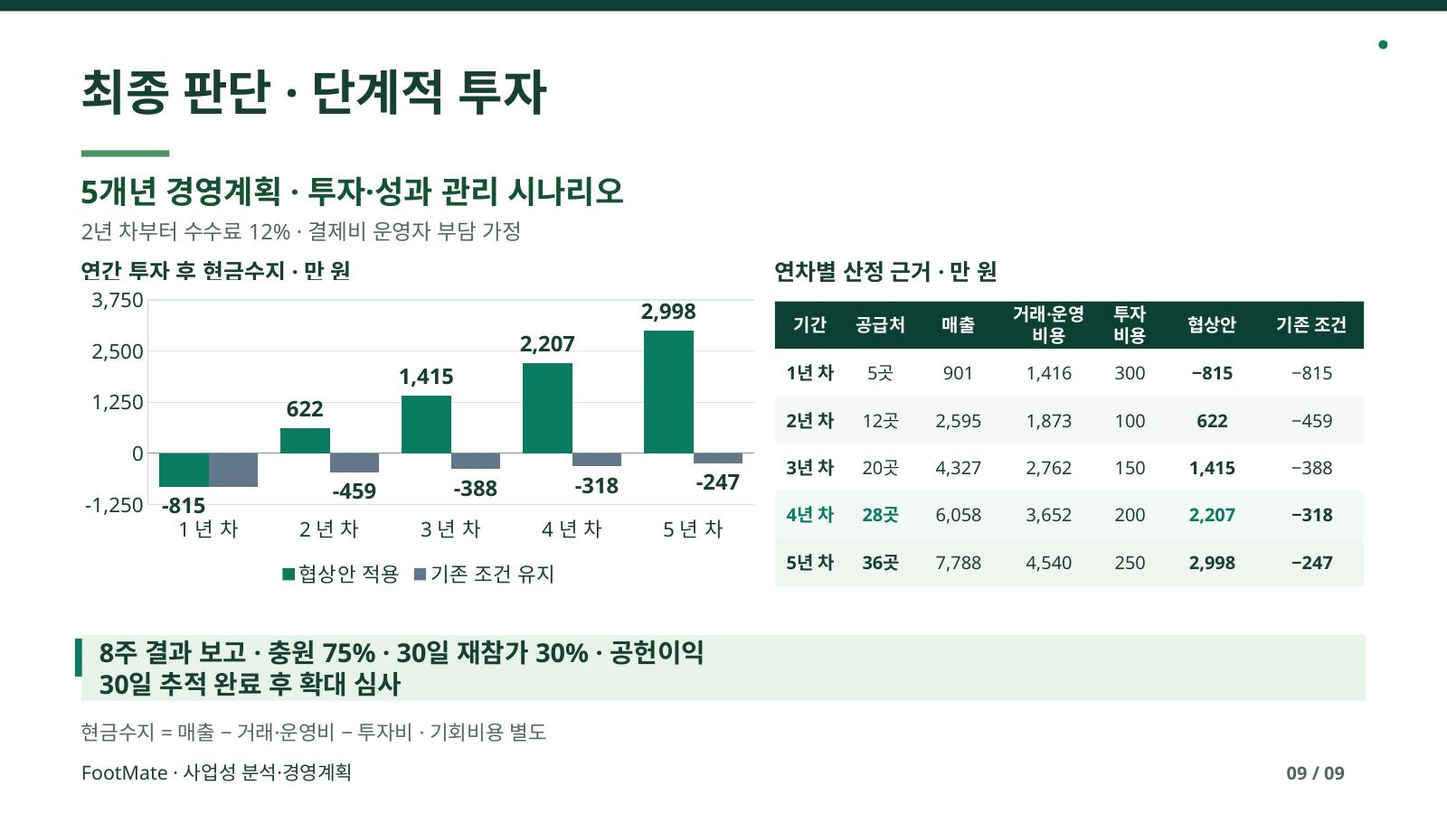
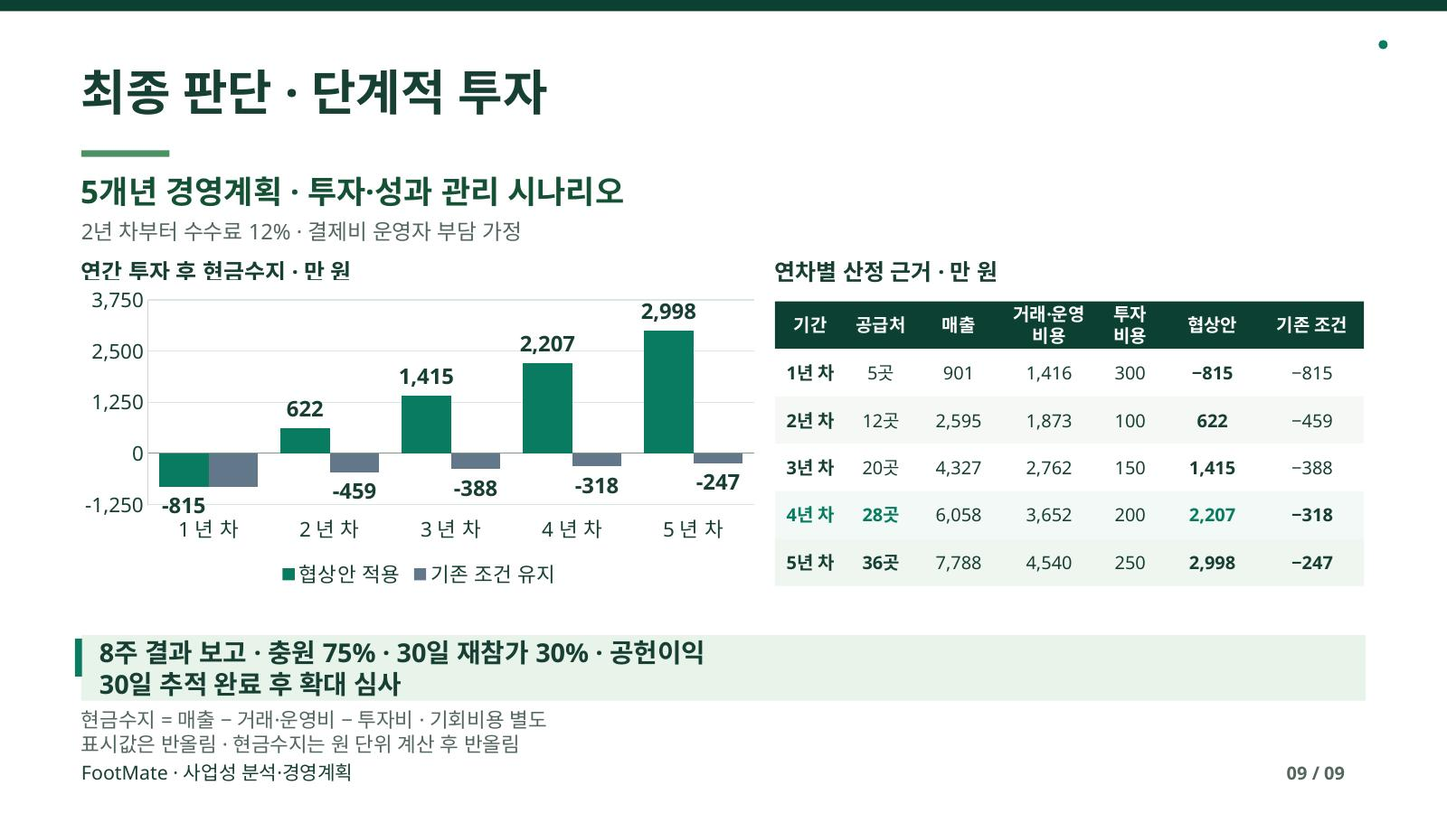
Clarify resource scope and cash-flow rounding

Changed region(s): [[0.0312, 0.8711, 0.375, 0.9333]]

diff --git a/src/case-study/nine-sections.js b/src/case-study/nine-sections.js
@@ -8,7 +8,7 @@ const sections = [
     "name": "추진 배경·검토 결론",
     "title": "풋살 매칭 플랫폼의 사업성 검토 및 중장기 경영계획",
     "lead": "",
-    "body": "<div class=\"case-verdict\"><h2>운영자 제휴로 시작하고,<br>수익성 확인 후 투자한다.</h2></div><dl class=\"case-kpis\" aria-label=\"기준 시나리오 주요 수치\"><div class=\"case-kpi\"><dt>월 완료 예약</dt><dd>626<small>건</small></dd></div><div class=\"case-kpi\"><dt>예약당 공헌이익</dt><dd>340<small>원</small></dd></div><div class=\"case-kpi\"><dt>예상 월 현금 손익</dt><dd class=\"is-negative\">약 −38.7<small>만 원</small></dd></div></dl><p class=\"case-scenario-note\">가정 기반 월간 시나리오 · 제휴 5곳 · 수수료 10% · 결제비 3%</p><div class=\"case-next-decision\"><strong>8주 현장 검증</strong><span>기본 현금 예산 461만 원</span></div><section id=\"attachments\" class=\"case-documents\" aria-labelledby=\"case-documents-heading\"><div class=\"case-documents-head\"><div class=\"case-documents-intro\"><h2 id=\"case-documents-heading\">발표자료</h2></div></div><div class=\"case-deck-stack\"><div class=\"case-deck-card\"><details class=\"case-doc-preview case-report-preview\"><summary><span class=\"case-preview-summary-main\"><span class=\"case-preview-symbol\" aria-hidden=\"true\">01</span><span class=\"case-preview-summary-text\"><strong>사업성 분석·경영계획</strong><span class=\"case-preview-description\">사업성 검토 · 손익분기 · 투자 판단</span></span></span><span class=\"case-preview-summary-side\"><span class=\"case-preview-count\">9장</span><span class=\"case-preview-action\">살펴보기</span><span class=\"case-preview-indicator\" aria-hidden=\"true\"></span></span></summary><div class=\"case-doc-preview-body\"><iframe class=\"case-ppt-frame\" title=\"사업성 분석·경영계획 슬라이드 9장\" allowfullscreen data-src=\"/src/case-study/materials.html?preview=1&viewer=20261112-qa\" loading=\"lazy\"></iframe></div></details><div class=\"case-downloads\" aria-label=\"사업성 분석·경영계획 발표자료\"><a href=\"/src/case-study/materials.html?preview=1&mode=slides&v=20261112-qa\" target=\"_blank\" rel=\"noopener\" aria-label=\"사업성 분석·경영계획 발표 보기\">발표 보기</a><a href=\"/src/case-study/downloads/footmate_report.pptx?v=20261113-budget\" download=\"footmate_report.pptx\">기획 자료 받기</a></div></div><div class=\"case-deck-card\"><details class=\"case-doc-preview case-strategy-preview\"><summary><span class=\"case-preview-summary-main\"><span class=\"case-preview-symbol\" aria-hidden=\"true\">02</span><span class=\"case-preview-summary-text\"><strong>중장기 성장 전략</strong><span class=\"case-preview-description\">공급 확대 · 5개년 손익 · 성과관리</span></span></span><span class=\"case-preview-summary-side\"><span class=\"case-preview-count\">6장</span><span class=\"case-preview-action\">살펴보기</span><span class=\"case-preview-indicator\" aria-hidden=\"true\"></span></span></summary><div class=\"case-doc-preview-body\"><iframe class=\"case-ppt-frame\" title=\"중장기 성장 전략 슬라이드 6장\" allowfullscreen data-src=\"/src/case-study/materials.html?preview=1&deck=strategy&viewer=20261112-qa\" loading=\"lazy\"></iframe></div></details><div class=\"case-downloads\" aria-label=\"중장기 성장 전략 발표자료\"><a href=\"/src/case-study/materials.html?preview=1&mode=slides&deck=strategy&v=20261112-qa\" target=\"_blank\" rel=\"noopener\" aria-label=\"중장기 성장 전략 발표 보기\">발표 보기</a><a href=\"/src/case-study/downloads/footmate_5year_strategy.pptx?v=20261112-qa\" download=\"footmate_5year_strategy.pptx\">전략 자료 받기</a></div></div></div></section>"
+    "body": "<div class=\"case-verdict\"><h2>운영자 제휴로 시작하고,<br>수익성 확인 후 투자한다.</h2></div><dl class=\"case-kpis\" aria-label=\"기준 시나리오 주요 수치\"><div class=\"case-kpi\"><dt>월 완료 예약</dt><dd>626<small>건</small></dd></div><div class=\"case-kpi\"><dt>예약당 공헌이익</dt><dd>340<small>원</small></dd></div><div class=\"case-kpi\"><dt>예상 월 현금 손익</dt><dd class=\"is-negative\">약 −38.7<small>만 원</small></dd></div></dl><p class=\"case-scenario-note\">가정 기반 월간 시나리오 · 제휴 5곳 · 수수료 10% · 결제비 3%</p><div class=\"case-next-decision\"><strong>8주 현장 검증</strong><span>기본 현금 예산 461만 원</span></div><section id=\"attachments\" class=\"case-documents\" aria-labelledby=\"case-documents-heading\"><div class=\"case-documents-head\"><div class=\"case-documents-intro\"><h2 id=\"case-documents-heading\">발표자료</h2></div></div><div class=\"case-deck-stack\"><div class=\"case-deck-card\"><details class=\"case-doc-preview case-report-preview\"><summary><span class=\"case-preview-summary-main\"><span class=\"case-preview-symbol\" aria-hidden=\"true\">01</span><span class=\"case-preview-summary-text\"><strong>사업성 분석·경영계획</strong><span class=\"case-preview-description\">사업성 검토 · 손익분기 · 투자 판단</span></span></span><span class=\"case-preview-summary-side\"><span class=\"case-preview-count\">9장</span><span class=\"case-preview-action\">살펴보기</span><span class=\"case-preview-indicator\" aria-hidden=\"true\"></span></span></summary><div class=\"case-doc-preview-body\"><iframe class=\"case-ppt-frame\" title=\"사업성 분석·경영계획 슬라이드 9장\" allowfullscreen data-src=\"/src/case-study/materials.html?preview=1&viewer=20261112-qa\" loading=\"lazy\"></iframe></div></details><div class=\"case-downloads\" aria-label=\"사업성 분석·경영계획 발표자료\"><a href=\"/src/case-study/materials.html?preview=1&mode=slides&v=20261112-qa\" target=\"_blank\" rel=\"noopener\" aria-label=\"사업성 분석·경영계획 발표 보기\">발표 보기</a><a href=\"/src/case-study/downloads/footmate_report.pptx?v=20261113-rounding\" download=\"footmate_report.pptx\">기획 자료 받기</a></div></div><div class=\"case-deck-card\"><details class=\"case-doc-preview case-strategy-preview\"><summary><span class=\"case-preview-summary-main\"><span class=\"case-preview-symbol\" aria-hidden=\"true\">02</span><span class=\"case-preview-summary-text\"><strong>중장기 성장 전략</strong><span class=\"case-preview-description\">공급 확대 · 5개년 손익 · 성과관리</span></span></span><span class=\"case-preview-summary-side\"><span class=\"case-preview-count\">6장</span><span class=\"case-preview-action\">살펴보기</span><span class=\"case-preview-indicator\" aria-hidden=\"true\"></span></span></summary><div class=\"case-doc-preview-body\"><iframe class=\"case-ppt-frame\" title=\"중장기 성장 전략 슬라이드 6장\" allowfullscreen data-src=\"/src/case-study/materials.html?preview=1&deck=strategy&viewer=20261112-qa\" loading=\"lazy\"></iframe></div></details><div class=\"case-downloads\" aria-label=\"중장기 성장 전략 발표자료\"><a href=\"/src/case-study/materials.html?preview=1&mode=slides&deck=strategy&v=20261112-qa\" target=\"_blank\" rel=\"noopener\" aria-label=\"중장기 성장 전략 발표 보기\">발표 보기</a><a href=\"/src/case-study/downloads/footmate_5year_strategy.pptx?v=20261112-qa\" download=\"footmate_5year_strategy.pptx\">전략 자료 받기</a></div></div></div></section>"
   },
   {
     "name": "시장·경쟁 분석",
@@ -50,7 +50,7 @@ const sections = [
     "name": "실행계획·성과관리",
     "title": "8주 현장 검증·투자 심사",
     "lead": "추진 일정과 목표, 예산 및 결정 기준.",
-    "body": "<div class=\"reader-summary\"><h3>예산과 핵심 목표</h3><dl class=\"case-decision-points\" aria-label=\"투자·검증·성과 목표 요약\"><div><dt>투자 상한</dt><dd>기본 현금 예산 461만 원 · 기회비용 포함 831만 원 · 유료 거래 변동비 별도 승인</dd></div><div><dt>초기 검증</dt><dd>운영자 5곳 면담 → 제휴 조건 확인 → 무료 참가 시범 운영</dd></div><div><dt>제안 목표</dt><dd>모집 충원율 75% · 30일 재참가율 30%</dd></div></dl><p class=\"case-decision-next\"><strong>투자 판단:</strong> 공급 계약, 참가·정원 기록, 건당 이익을 종합 검토.</p></div><section class=\"case-roadmap\" aria-labelledby=\"case-roadmap-heading\"><div class=\"case-roadmap-heading\"><span class=\"case-visual-eyebrow\">사업 추진 일정</span><h3 id=\"case-roadmap-heading\">8주 실행 로드맵</h3></div><ol><li><span class=\"case-roadmap-index\">01</span><span class=\"case-roadmap-period\">1–2주</span><strong>공급 검증</strong><small>운영자 5곳 면담</small></li><li><span class=\"case-roadmap-index\">02</span><span class=\"case-roadmap-period\">3–4주</span><strong>무료 시범</strong><small>참가·취소·체크인</small></li><li><span class=\"case-roadmap-index\">03</span><span class=\"case-roadmap-period\">5–8주</span><strong>유료 조건 검토</strong><small>책임 확정 후 실험</small></li><li><span class=\"case-roadmap-index\">04</span><span class=\"case-roadmap-period\">8주 이후</span><strong>투자 심사</strong><small>참가·수익성 비교</small></li></ol></section><div class=\"table-wrap\" role=\"region\" aria-label=\"단계별 실행 계획 · 제안\" tabindex=\"0\"><table><caption>단계별 실행 계획 · 제안</caption><thead><tr><th scope=\"col\">단계</th><th scope=\"col\">주요 작업</th><th scope=\"col\">산출물·진행 조건</th></tr></thead><tbody><tr><th scope=\"row\">1–2주 · 공급 검증</th><td data-label=\"주요 작업\">후보 운영자 5곳 면담, 모집·정원·취소·수수료 책임 확인</td><td data-label=\"산출물·진행 조건\">제휴 의향과 공급 일정. 2곳 미만이면 지역·모델 재검토</td></tr><tr><th scope=\"row\">3–4주 · 무료 참가 시범 운영</th><td data-label=\"주요 작업\">실제 경기 등록·참가·취소·체크인·문의 처리</td><td data-label=\"산출물·진행 조건\">실제 참가자의 운영 기록과 상태·복구 목록</td></tr><tr><th scope=\"row\">5–8주 · 유료 검토</th><td data-label=\"주요 작업\">계약·결제·환불 책임 확정 후 가격·수수료·모집 실험</td><td data-label=\"산출물·진행 조건\">무료 참가 시범 운영으로 선행 요건을 확인한 뒤 결제 전환</td></tr><tr><th scope=\"row\">8주 이후 · 투자 심사</th><td data-label=\"주요 작업\">완료 예약·재참가·공헌이익·운영 시간 비교</td><td data-label=\"산출물·진행 조건\">현장 검증 결과에 따라 확장·집중 운영·모델 전환·종료 판단</td></tr><tr><th scope=\"row\">공동 추진 · 주간 점검</th><td data-label=\"주요 작업\">사업기획은 협상·일정, 운영은 공급·참가를 담당.</td><td data-label=\"산출물·진행 조건\">재무는 비용·정산, 개발은 예약·오류 기록을 대조.</td></tr><tr><th scope=\"row\">공동 추진 · 이슈 관리</th><td data-label=\"주요 작업\">매주 슬롯·충원·취소·완료와 약정 비용 점검.</td><td data-label=\"산출물·진행 조건\">과제별 담당·기한·결정 사항을 주간 회의에서 확정.</td></tr><tr><th scope=\"row\">공동 추진 · 8주 심사</th><td data-label=\"주요 작업\">충원 75%·30일 재참가 30%·건당 공헌이익 확인.</td><td data-label=\"산출물·진행 조건\">30일 경과 집단과 유료 완료 기록으로 확대 심사.</td></tr></tbody></table></div><p class=\"source-note\">초기 모집 목표 100명. 추천 효과 검증 표본은 별도 산정.</p><figure class=\"case-cash-chart\" aria-labelledby=\"case-cash-title\"><figcaption><strong id=\"case-cash-title\">5개년 연간 투자 후 현금수지</strong><span>연도별 현금수지 · 기회비용 별도 · 만 원</span></figcaption><ul class=\"case-cash-legend\"><li>협상안 적용</li><li>기존 조건 유지</li></ul><svg aria-hidden=\"true\" viewBox=\"0 0 548 223\"></svg></figure><details class=\"case-extra\"><summary>중장기 사업계획 · 예산과 확대 기준</summary><div class=\"detail-body\"><p><strong>5개년 기준 시나리오</strong> · 2년 차부터 수수료 12%·운영자 결제비 부담.</p><div class=\"table-wrap\" role=\"region\" tabindex=\"0\" aria-label=\"5개년 경영계획과 현금수지\"><table><caption>5개년 경영계획 · 금액 단위 만 원</caption><thead><tr><th scope=\"col\">항목</th><th scope=\"col\">1년 차</th><th scope=\"col\">2년 차</th><th scope=\"col\">3년 차</th><th scope=\"col\">4년 차</th><th scope=\"col\">5년 차</th></tr></thead><tbody><tr><th scope=\"row\">제휴 공급처</th><td data-label=\"1년 차\">5곳</td><td data-label=\"2년 차\">12곳</td><td data-label=\"3년 차\">20곳</td><td data-label=\"4년 차\">28곳</td><td data-label=\"5년 차\">36곳</td></tr><tr><th scope=\"row\">연 완료 예약</th><td data-label=\"1년 차\">7,512건</td><td data-label=\"2년 차\">18,024건</td><td data-label=\"3년 차\">30,048건</td><td data-label=\"4년 차\">42,072건</td><td data-label=\"5년 차\">54,084건</td></tr><tr><th scope=\"row\">수수료 매출</th><td data-label=\"1년 차\">901</td><td data-label=\"2년 차\">2,595</td><td data-label=\"3년 차\">4,327</td><td data-label=\"4년 차\">6,058</td><td data-label=\"5년 차\">7,788</td></tr><tr><th scope=\"row\">거래 변동비</th><td data-label=\"1년 차\">646</td><td data-label=\"2년 차\">901</td><td data-label=\"3년 차\">1,502</td><td data-label=\"4년 차\">2,104</td><td data-label=\"5년 차\">2,704</td></tr><tr><th scope=\"row\">현금 운영비</th><td data-label=\"1년 차\">770</td><td data-label=\"2년 차\">972</td><td data-label=\"3년 차\">1,260</td><td data-label=\"4년 차\">1,548</td><td data-label=\"5년 차\">1,836</td></tr><tr><th scope=\"row\">구축·확장 투자비</th><td data-label=\"1년 차\">300</td><td data-label=\"2년 차\">100</td><td data-label=\"3년 차\">150</td><td data-label=\"4년 차\">200</td><td data-label=\"5년 차\">250</td></tr><tr data-cash-series=\"negotiated\"><th scope=\"row\">투자 후 현금수지</th><td data-label=\"1년 차\">−815</td><td data-label=\"2년 차\">622</td><td data-label=\"3년 차\">1,415</td><td data-label=\"4년 차\">2,207</td><td data-label=\"5년 차\">2,998</td></tr><tr data-cash-series=\"current\"><th scope=\"row\">기존 수수료·결제 조건 유지 시 현금수지</th><td data-label=\"1년 차\">−815</td><td data-label=\"2년 차\">−459</td><td data-label=\"3년 차\">−388</td><td data-label=\"4년 차\">−318</td><td data-label=\"5년 차\">−247</td></tr></tbody></table></div><p class=\"source-note\">기준 · 참가비 12,000원 · 수수료 10% · 결제비 3%.</p><p class=\"source-note\">완료 예약은 공급·충원·취소 가정 · 변동비 860→500원/건.</p><p class=\"source-note\">연 운영비 720만 원 + 5곳 초과분 36만 원/곳.</p><p class=\"source-note\">1년 차 현금 운영비에 시범 운영비 50만 원 포함.</p><p class=\"source-note\">현금수지 = 수수료 매출 − 변동비 − 운영비 − 투자비.</p><p class=\"source-note\">인력 기회비용 월 200만 원 별도.</p><div class=\"table-wrap\" role=\"region\" tabindex=\"0\" aria-label=\"연차별 사업계획과 투자 기준\"><table><caption>연차별 사업계획과 투자 기준</caption><thead><tr><th scope=\"col\">기간</th><th scope=\"col\">사업·예산 계획</th><th scope=\"col\">핵심 지표</th><th scope=\"col\">승인 기준</th></tr></thead><tbody><tr><th scope=\"row\">1년 차 · 한 생활권</th><td data-label=\"사업·예산 계획\">기본 현금 예산 1,070만 원 · 거래 변동비 별도</td><td data-label=\"핵심 지표\">충원율 75% · 30일 재참가율 30%</td><td data-label=\"승인 기준\">8주 결과와 유료 예약당 공헌이익을 확인</td></tr><tr><th scope=\"row\">2년 차 · 인접 생활권</th><td data-label=\"사업·예산 계획\">생활권별 공급과 추가 관리비를 반영해 분기 예산 산정</td><td data-label=\"핵심 지표\">지역별 완료 예약 · 공헌이익 · 현금 손익</td><td data-label=\"승인 기준\">추가 운영비를 반영한 지역별 손익과 가용 현금 확인</td></tr><tr><th scope=\"row\">3년 차 · 제휴 운영 확대</th><td data-label=\"사업·예산 계획\">지역별 계획을 합산하고 연간 투자 우선순위 결정</td><td data-label=\"핵심 지표\">지역별 손익분기 · 현금 소요 · 공급 유지율</td><td data-label=\"승인 기준\">지역별 수익성과 운영 책임 확인 후 단계별 승인</td></tr><tr><th scope=\"row\">4년 차 · 운영 표준화</th><td data-label=\"사업·예산 계획\">공급처 28곳 · 정산·지원 프로세스 통합</td><td data-label=\"핵심 지표\">인력 기회비용 포함 월 운영손익</td><td data-label=\"승인 기준\">관리비·기회비용 포함 월 손익분기 3개월 연속</td></tr><tr><th scope=\"row\">5년 차 · 권역 확대</th><td data-label=\"사업·예산 계획\">공급처 36곳 · 다음 권역 투자 검토</td><td data-label=\"핵심 지표\">투자 후 현금수지 · 권역별 재참가율</td><td data-label=\"승인 기준\">현금수지와 권역별 수익성 검토 후 예산 확정</td></tr></tbody></table></div><div class=\"table-wrap\" role=\"region\" tabindex=\"0\" aria-label=\"1년 차 분기별 운영 계획\"><table><caption>1년 차 분기별 운영 계획</caption><thead><tr><th scope=\"col\">시기</th><th scope=\"col\">운영 계획</th><th scope=\"col\">관리 산출물</th></tr></thead><tbody><tr><th scope=\"row\">1분기</th><td data-label=\"운영 계획\">8주 파일럿 · 기본 현금 예산 461만 원</td><td data-label=\"관리 산출물\">제휴 조건과 충원·완료·취소 기록</td></tr><tr><th scope=\"row\">2분기</th><td data-label=\"운영 계획\">유료 조건 검토 · 30일 재참가 추적</td><td data-label=\"관리 산출물\">수수료·결제비·지원 비용 대조</td></tr><tr><th scope=\"row\">3분기</th><td data-label=\"운영 계획\">시간대와 공급처별 예산 재배분</td><td data-label=\"관리 산출물\">월 손익 차이 분석과 비용 관리</td></tr><tr><th scope=\"row\">4분기</th><td data-label=\"운영 계획\">연간 결과 검토와 다음 해 예산 심사</td><td data-label=\"관리 산출물\">생활권별 수익성과 투자 우선순위</td></tr></tbody></table></div><p class=\"source-note\">연간 운영 720만 원 + 구축 300만 원 + 시범 50만 원.</p><p class=\"source-note\">8주 예산은 연간 예산에 포함. 인력 기회비용은 월 200만 원.</p><p class=\"source-note\">운영자별 집계 → 생활권별 손익 → 전체 월간 보고.</p></div></details><details class=\"case-extra\"><summary>월간 경영보고 예시 · KPI·손익 비교</summary><div class=\"detail-body\"><p>6월 완료 예약 · 계획 1,052건 / 가상 실적 1,019건.</p><p>현금 손익 · 계획 −242,320원 / 가상 실적 −459,360원.</p><div class=\"table-wrap\" role=\"region\" tabindex=\"0\" aria-label=\"6월 월간 보고 예시 · 가상 데이터\"><table><caption>6월 월간 보고 예시 · 가상 데이터</caption><thead><tr><th scope=\"col\">항목</th><th scope=\"col\">계획 대비 손익 영향</th><th scope=\"col\">다음 조치</th></tr></thead><tbody><tr><th scope=\"row\">완료 물량</th><td data-label=\"계획 대비 손익 영향\">−39,600원</td><td data-label=\"다음 조치\">슬롯·충원·취소·완료 단계별 차이 대조</td></tr><tr><th scope=\"row\">수수료 단가</th><td data-label=\"계획 대비 손익 영향\">+400원</td><td data-label=\"다음 조치\">가격·수수료를 정산 원장과 대조</td></tr><tr><th scope=\"row\">순비용</th><td data-label=\"계획 대비 손익 영향\">−177,840원</td><td data-label=\"다음 조치\">고객 확보·지원·IT 비용의 증가 항목 확인</td></tr><tr><th scope=\"row\">합계</th><td data-label=\"계획 대비 손익 영향\">−217,040원</td><td data-label=\"다음 조치\">비용 배분과 후속 조치에 반영</td></tr></tbody></table></div><div class=\"table-wrap\" role=\"region\" tabindex=\"0\" aria-label=\"모의 월간 경영보고\"><table><caption>월간 계획·시나리오 데이터 비교</caption><thead><tr><th scope=\"col\">관리 항목</th><th scope=\"col\">기준·대조</th><th scope=\"col\">차이 분석·결정</th></tr></thead><tbody><tr><th scope=\"row\">공급·완료 KPI</th><td data-label=\"기준·대조\">626건/월 산정 기준. 슬롯·충원·예약·취소·완료율 분리.</td><td data-label=\"차이 분석·결정\">계획과 가상 결과의 물량 차이를 공급량·충원·취소로 분해</td></tr><tr><th scope=\"row\">수수료·손익</th><td data-label=\"기준·대조\">월 기준 · 매출 75.1만 원 / 건당 340원 / 현금 −38.7만 원</td><td data-label=\"차이 분석·결정\">원장 대조 · 수수료·변동비·고정비 확인 · 중복 차감 방지</td></tr><tr><th scope=\"row\">보고 절차 제안</th><td data-label=\"기준·대조\">월말+3일 원장 대조. +5일 차이 분석.</td><td data-label=\"차이 분석·결정\">원인·증빙·변경 산정 기준·승인 여부를 기록할 관리 절차 설계</td></tr></tbody></table></div></div></details><details><summary>8주 예산과 투자 심사 지표</summary><div class=\"detail-body\"><div class=\"case-evidence-part\"><h4>8주 자원 산정·승인 범위</h4><p>예산 · 구축 300만 원 / 월 기회비용 200만 원 / 시범 운영 50만 원.</p><p>창업자 투입 · 148시간 × 25,000원.</p><div class=\"table-wrap\" role=\"region\" aria-label=\"8주 현장 검증 자원 · 집행 상한 제안\" tabindex=\"0\"><table><caption>8주 현장 검증 자원 · 집행 상한 제안</caption><thead><tr><th scope=\"col\">항목</th><th scope=\"col\">산정·범위</th><th scope=\"col\">8주 금액</th></tr></thead><tbody><tr><th scope=\"row\">초기 구축</th><td data-label=\"산정·범위\">기존 초기 투자 계획. 필요한 범위만 착수 전 승인</td><td data-label=\"8주 금액\">3,000,000원</td></tr><tr><th scope=\"row\">고정 운영</th><td data-label=\"산정·범위\">월 600,000원 × 8주 ÷ 4.33주 · 만 원 단위 올림</td><td data-label=\"8주 금액\">1,110,000원</td></tr><tr><th scope=\"row\">시범 운영 추가비</th><td data-label=\"산정·범위\">모집·현장 지원 등 추가 집행 한도 산정 기준. 고정비와 중복 제외</td><td data-label=\"8주 금액\">500,000원</td></tr><tr><th scope=\"row\">기본 현금 예산</th><td data-label=\"산정·범위\">초기 구축비 + 고정 운영비 + 시범 운영 추가비. 유료 거래 변동비는 집행 전 별도 승인.</td><td data-label=\"8주 금액\">4,610,000원</td></tr><tr><th scope=\"row\">기회비용</th><td data-label=\"산정·범위\">200만 원 × 8주 ÷ 4.33주 · 만 원 단위 올림</td><td data-label=\"8주 금액\">3,700,000원</td></tr><tr><th scope=\"row\">총 자원 상한</th><td data-label=\"산정·범위\">기본 현금 예산 + 기회비용</td><td data-label=\"8주 금액\">8,310,000원</td></tr></tbody></table></div><p>기회비용은 월 4.33주 기준으로 계산해 만 원 단위로 올림. 유료 검증 전 거래 변동비 한도를 별도 승인.</p><p>해지·환불·안전 책임 확인. 예산 초과 시 집행 보류.</p></div><div class=\"case-evidence-part\"><h4>투자 심사 지표 · 정의와 목표</h4><div class=\"table-wrap\" role=\"region\" aria-label=\"투자 판단에 필요한 수치\" tabindex=\"0\"><table><caption>투자 판단에 필요한 수치</caption><thead><tr><th scope=\"col\">지표</th><th scope=\"col\">계산·측정 기준</th><th scope=\"col\">다음 판단</th></tr></thead><tbody><tr><th scope=\"row\">모집 충원율</th><td data-label=\"계산·측정 기준\">확정 좌석 ÷ 공개 정원(취소 전·전체 채널).</td><td data-label=\"다음 판단\">목표 75%, 인원 미달 취소 별도 집계</td></tr><tr><th scope=\"row\">30일 재참가율</th><td data-label=\"계산·측정 기준\">30일 내 재참가 고유 이용자 ÷ 30일 경과 이용자.</td><td data-label=\"다음 판단\">제안 목표 30%, 첫 참가 후 30일이 지난 집단만 평가</td></tr><tr><th scope=\"row\">예약당 공헌이익</th><td data-label=\"계산·측정 기준\">수수료 수익 − 결제비 − 유입·지원·IT 변동비</td><td data-label=\"다음 판단\">실제 정산 표본에서 양수인지 확인</td></tr><tr><th scope=\"row\">참가 안정성</th><td data-label=\"계산·측정 기준\">참가 처리·중복 방지·정원 일관성과 복구 결과</td><td data-label=\"다음 판단\">중대한 데이터 오류를 해결한 뒤 공급 확대</td></tr><tr><th scope=\"row\">AI 추가 가치</th><td data-label=\"계산·측정 기준\">기본 정렬 대비 참가 완료와 추가 비용</td><td data-label=\"다음 판단\">기본 정렬을 기준으로 추가 효과에 따라 AI 적용</td></tr></tbody></table></div></div></div></details><details><summary>월간 지표 관리와 손익 검증</summary><div class=\"detail-body\"><div class=\"case-evidence-part\"><h4>월간 지표 관리·정정 책임표</h4><p>2027년 상반기 가상 데이터, 하반기 공급 전망.</p><p>예약 ID별 취소·노쇼 구분. 환불 차감 후 수수료 적용.</p><div class=\"table-wrap\"><table><thead><tr><th>관리 항목</th><th>정의·주기</th><th>담당 역할</th><th>마감·정정 통제</th></tr></thead><tbody><tr><th scope=\"row\">수수료 매출</th><td data-label=\"정의·주기\">완료 거래액 × 계약 수수료 / 월</td><td data-label=\"담당 역할\">사업 관리</td><td data-label=\"마감·정정 통제\">월말 이후 3일 이내 대조, 환불·수수료 원장 확인</td></tr><tr><th scope=\"row\">손익 차이</th><td data-label=\"정의·주기\">물량·건당 수익·비용 영향 분해 / 월</td><td data-label=\"담당 역할\">경영기획</td><td data-label=\"마감·정정 통제\">월말 이후 5일 이내 원인 보고</td></tr><tr><th scope=\"row\">공급·완료율</th><td data-label=\"정의·주기\">슬롯·정원·플랫폼 예약·취소·완료 / 주</td><td data-label=\"담당 역할\">운영</td><td data-label=\"마감·정정 통제\">운영자별 중복 등록·미래 일정 검증</td></tr><tr><th scope=\"row\">데이터 정정</th><td data-label=\"정의·주기\">원본 보존, 예약 ID·수정 사유·버전 기록</td><td data-label=\"담당 역할\">데이터 관리</td><td data-label=\"마감·정정 통제\">담당자 확인 후 재집계, 보고 버전 갱신</td></tr></tbody></table></div></div><div class=\"case-evidence-part\"><h4>손익 변화 검사 세부표</h4><p class=\"source-note\">CAC·수수료·취소율 변화별 손익 비교.</p><div class=\"table-wrap\"><table><thead><tr><th>검증 시나리오</th><th>검증 내용</th><th>판단</th></tr></thead><tbody><tr><th scope=\"row\">플랫폼 예약 비중 20% 감소</th><td data-label=\"검증 내용\">매출·공헌이익·필요 공급처 재계산</td><td data-label=\"판단\">수수료 협상만으로 만회 가능한지 확인</td></tr><tr><th scope=\"row\">고객 확보비 2배</th><td data-label=\"검증 내용\">신규 비중을 반영한 건당 이익 재계산</td><td data-label=\"판단\">0 이하이면 유입 지출 확대 보류</td></tr><tr><th scope=\"row\">취소율 20%</th><td data-label=\"검증 내용\">완료 거래와 취소 CS 비용 반영</td><td data-label=\"판단\">환불·지원비 부담 재협상</td></tr><tr><th scope=\"row\">공헌이익 0 이하</th><td data-label=\"검증 내용\">손익분기 출력 경계 검사</td><td data-label=\"판단\">건당 공헌이익 개선 우선</td></tr><tr><th scope=\"row\">ID·환불·합계 대조</th><td data-label=\"검증 내용\">중복 예약, 환불 초과, 월 합계 일치 검사</td><td data-label=\"판단\">검증 결과와 재현 방법은 첨부 자료에 기록</td></tr></tbody></table></div><p class=\"source-note\">충원율 75%=전체 채널·취소 전(04). 플랫폼 지표 별도.</p></div></div></details><details class=\"case-extra\"><summary>측정 방법과 현장 검증 판단</summary><div class=\"detail-body\"><div class=\"case-evidence-part\"><h4>검토 방향별 측정 방법과 평가 시점</h4><div class=\"table-wrap\" role=\"region\" aria-label=\"8주 현장 검증 설계안\" tabindex=\"0\"><table><caption>8주 현장 검증 설계안</caption><thead><tr><th scope=\"col\">검토 방향·대상</th><th scope=\"col\">수집 자료·평가 시점</th><th scope=\"col\">평가 결과별 조치</th></tr></thead><tbody><tr><th scope=\"row\">지역 공급 · 후보 운영자 5곳</th><td data-label=\"수집 자료·평가 시점\">1–2주 · 제휴·슬롯·정원·취소·수수료 확인.</td><td data-label=\"평가 결과별 조치\">2곳 이상 시범 운영. 미만이면 지역·제휴 조건 재검토.</td></tr><tr><th scope=\"row\">참가 수요 · 해당 생활권 이용자</th><td data-label=\"수집 자료·평가 시점\">3–8주 · 정원·확정·취소·완료·운영 시간 기록.</td><td data-label=\"평가 결과별 조치\">충원 목표 75%·미달 취소 대조 후 시간대·공급량 조정</td></tr><tr><th scope=\"row\">반복 이용 · 첫 참가 완료 집단</th><td data-label=\"수집 자료·평가 시점\">첫 참가 후 30일 추적 · 추적 완료자만 분모(무료·유료 구분)</td><td data-label=\"평가 결과별 조치\">추적 완료자 재참가 목표 30%.</td></tr><tr><th scope=\"row\">단위 손익 · 실제 유료 완료 예약</th><td data-label=\"수집 자료·평가 시점\">유료 전환 후 매출·환불·결제비·획득비·지원·IT 비용 기록.</td><td data-label=\"평가 결과별 조치\">양의 공헌이익·고정비 회수 조건 확인. 지불 의향·실현 매출 구분</td></tr><tr><th scope=\"row\">AI 추가 가치 · 같은 적격 후보 집단</th><td data-label=\"수집 자료·평가 시점\">실험 전 배정·노출·완료·호출 비용 확정. 표본은 효과 크기로 산정.</td><td data-label=\"평가 결과별 조치\">초기 모집 목표 100명. 표본 부족 시 탐색적 결과 보고·추가 측정</td></tr></tbody></table></div><p class=\"source-note\">역할 · 운영자 현장 / 서비스 기록 / 기획 심사. 권한 추후 확정.</p></div><div class=\"case-evidence-part\"><h4>현장 검증 결과별 의사결정</h4><div class=\"table-wrap\" role=\"region\" aria-label=\"진행 여부와 후속 조치\" tabindex=\"0\"><table><caption>진행 여부와 후속 조치</caption><thead><tr><th scope=\"col\">상태</th><th scope=\"col\">판단 기준</th><th scope=\"col\">후속 행동</th></tr></thead><tbody><tr><th scope=\"row\">진행</th><td data-label=\"판단 기준\">공급·운영 안정성 확보 및 추적 완료자 목표 달성</td><td data-label=\"후속 행동\">다음 단계 필요 예산만 승인. 확대 경제성 별도 심사</td></tr><tr><th scope=\"row\">목표 재점검</th><td data-label=\"판단 기준\">전체 채널 모집 충원율 75%와 첫 참가 후 30일 추적 완료자의 재참가율 30%를 각각 점검.</td><td data-label=\"후속 행동\">시간대·공급·가격 중 변경 방향 확정 후 남은 예산 내 재실험</td></tr><tr><th scope=\"row\">자료 보완</th><td data-label=\"판단 기준\">모집 규모·비교 표본·기록 보완 필요</td><td data-label=\"후속 행동\">표본·기록·추가 비용을 보완한 후 효과 평가</td></tr><tr><th scope=\"row\">측정 진행</th><td data-label=\"판단 기준\">첫 참가 후 30일 추적 진행 중</td><td data-label=\"후속 행동\">추적 중인 집단은 별도 집계 · 완료 후 재심사</td></tr><tr><th scope=\"row\">중단·재승인</th><td data-label=\"판단 기준\">중대한 정원·권한 오류, 책임 미확정, 예상 집행 상한 초과</td><td data-label=\"후속 행동\">해당 모집·집행 중단. 원인 해소·잔여 예산 확인 후 재승인</td></tr></tbody></table></div><p>8주 후 현금 지출·약정 금액·남은 과제 보고</p><p>30일 추적 완료 후 확대 심사.</p></div></div></details>"
+    "body": "<div class=\"reader-summary\"><h3>예산과 핵심 목표</h3><dl class=\"case-decision-points\" aria-label=\"투자·검증·성과 목표 요약\"><div><dt>투자 상한</dt><dd>기본 현금 예산 461만 원 · 기회비용 포함 831만 원 · 유료 거래 변동비 별도 승인</dd></div><div><dt>초기 검증</dt><dd>운영자 5곳 면담 → 제휴 조건 확인 → 무료 참가 시범 운영</dd></div><div><dt>제안 목표</dt><dd>모집 충원율 75% · 30일 재참가율 30%</dd></div></dl><p class=\"case-decision-next\"><strong>투자 판단:</strong> 공급 계약, 참가·정원 기록, 건당 이익을 종합 검토.</p></div><section class=\"case-roadmap\" aria-labelledby=\"case-roadmap-heading\"><div class=\"case-roadmap-heading\"><span class=\"case-visual-eyebrow\">사업 추진 일정</span><h3 id=\"case-roadmap-heading\">8주 실행 로드맵</h3></div><ol><li><span class=\"case-roadmap-index\">01</span><span class=\"case-roadmap-period\">1–2주</span><strong>공급 검증</strong><small>운영자 5곳 면담</small></li><li><span class=\"case-roadmap-index\">02</span><span class=\"case-roadmap-period\">3–4주</span><strong>무료 시범</strong><small>참가·취소·체크인</small></li><li><span class=\"case-roadmap-index\">03</span><span class=\"case-roadmap-period\">5–8주</span><strong>유료 조건 검토</strong><small>책임 확정 후 실험</small></li><li><span class=\"case-roadmap-index\">04</span><span class=\"case-roadmap-period\">8주 이후</span><strong>투자 심사</strong><small>참가·수익성 비교</small></li></ol></section><div class=\"table-wrap\" role=\"region\" aria-label=\"단계별 실행 계획 · 제안\" tabindex=\"0\"><table><caption>단계별 실행 계획 · 제안</caption><thead><tr><th scope=\"col\">단계</th><th scope=\"col\">주요 작업</th><th scope=\"col\">산출물·진행 조건</th></tr></thead><tbody><tr><th scope=\"row\">1–2주 · 공급 검증</th><td data-label=\"주요 작업\">후보 운영자 5곳 면담, 모집·정원·취소·수수료 책임 확인</td><td data-label=\"산출물·진행 조건\">제휴 의향과 공급 일정. 2곳 미만이면 지역·모델 재검토</td></tr><tr><th scope=\"row\">3–4주 · 무료 참가 시범 운영</th><td data-label=\"주요 작업\">실제 경기 등록·참가·취소·체크인·문의 처리</td><td data-label=\"산출물·진행 조건\">실제 참가자의 운영 기록과 상태·복구 목록</td></tr><tr><th scope=\"row\">5–8주 · 유료 검토</th><td data-label=\"주요 작업\">계약·결제·환불 책임 확정 후 가격·수수료·모집 실험</td><td data-label=\"산출물·진행 조건\">무료 참가 시범 운영으로 선행 요건을 확인한 뒤 결제 전환</td></tr><tr><th scope=\"row\">8주 이후 · 투자 심사</th><td data-label=\"주요 작업\">완료 예약·재참가·공헌이익·운영 시간 비교</td><td data-label=\"산출물·진행 조건\">현장 검증 결과에 따라 확장·집중 운영·모델 전환·종료 판단</td></tr><tr><th scope=\"row\">공동 추진 · 주간 점검</th><td data-label=\"주요 작업\">사업기획은 협상·일정, 운영은 공급·참가를 담당.</td><td data-label=\"산출물·진행 조건\">재무는 비용·정산, 개발은 예약·오류 기록을 대조.</td></tr><tr><th scope=\"row\">공동 추진 · 이슈 관리</th><td data-label=\"주요 작업\">매주 슬롯·충원·취소·완료와 약정 비용 점검.</td><td data-label=\"산출물·진행 조건\">과제별 담당·기한·결정 사항을 주간 회의에서 확정.</td></tr><tr><th scope=\"row\">공동 추진 · 8주 심사</th><td data-label=\"주요 작업\">충원 75%·30일 재참가 30%·건당 공헌이익 확인.</td><td data-label=\"산출물·진행 조건\">30일 경과 집단과 유료 완료 기록으로 확대 심사.</td></tr></tbody></table></div><p class=\"source-note\">초기 모집 목표 100명. 추천 효과 검증 표본은 별도 산정.</p><figure class=\"case-cash-chart\" aria-labelledby=\"case-cash-title\"><figcaption><strong id=\"case-cash-title\">5개년 연간 투자 후 현금수지</strong><span>연도별 현금수지 · 기회비용 별도 · 만 원</span></figcaption><ul class=\"case-cash-legend\"><li>협상안 적용</li><li>기존 조건 유지</li></ul><svg aria-hidden=\"true\" viewBox=\"0 0 548 223\"></svg></figure><details class=\"case-extra\"><summary>중장기 사업계획 · 예산과 확대 기준</summary><div class=\"detail-body\"><p><strong>5개년 기준 시나리오</strong> · 2년 차부터 수수료 12%·운영자 결제비 부담.</p><div class=\"table-wrap\" role=\"region\" tabindex=\"0\" aria-label=\"5개년 경영계획과 현금수지\"><table><caption>5개년 경영계획 · 금액 단위 만 원</caption><thead><tr><th scope=\"col\">항목</th><th scope=\"col\">1년 차</th><th scope=\"col\">2년 차</th><th scope=\"col\">3년 차</th><th scope=\"col\">4년 차</th><th scope=\"col\">5년 차</th></tr></thead><tbody><tr><th scope=\"row\">제휴 공급처</th><td data-label=\"1년 차\">5곳</td><td data-label=\"2년 차\">12곳</td><td data-label=\"3년 차\">20곳</td><td data-label=\"4년 차\">28곳</td><td data-label=\"5년 차\">36곳</td></tr><tr><th scope=\"row\">연 완료 예약</th><td data-label=\"1년 차\">7,512건</td><td data-label=\"2년 차\">18,024건</td><td data-label=\"3년 차\">30,048건</td><td data-label=\"4년 차\">42,072건</td><td data-label=\"5년 차\">54,084건</td></tr><tr><th scope=\"row\">수수료 매출</th><td data-label=\"1년 차\">901</td><td data-label=\"2년 차\">2,595</td><td data-label=\"3년 차\">4,327</td><td data-label=\"4년 차\">6,058</td><td data-label=\"5년 차\">7,788</td></tr><tr><th scope=\"row\">거래 변동비</th><td data-label=\"1년 차\">646</td><td data-label=\"2년 차\">901</td><td data-label=\"3년 차\">1,502</td><td data-label=\"4년 차\">2,104</td><td data-label=\"5년 차\">2,704</td></tr><tr><th scope=\"row\">현금 운영비</th><td data-label=\"1년 차\">770</td><td data-label=\"2년 차\">972</td><td data-label=\"3년 차\">1,260</td><td data-label=\"4년 차\">1,548</td><td data-label=\"5년 차\">1,836</td></tr><tr><th scope=\"row\">구축·확장 투자비</th><td data-label=\"1년 차\">300</td><td data-label=\"2년 차\">100</td><td data-label=\"3년 차\">150</td><td data-label=\"4년 차\">200</td><td data-label=\"5년 차\">250</td></tr><tr data-cash-series=\"negotiated\"><th scope=\"row\">투자 후 현금수지</th><td data-label=\"1년 차\">−815</td><td data-label=\"2년 차\">622</td><td data-label=\"3년 차\">1,415</td><td data-label=\"4년 차\">2,207</td><td data-label=\"5년 차\">2,998</td></tr><tr data-cash-series=\"current\"><th scope=\"row\">기존 수수료·결제 조건 유지 시 현금수지</th><td data-label=\"1년 차\">−815</td><td data-label=\"2년 차\">−459</td><td data-label=\"3년 차\">−388</td><td data-label=\"4년 차\">−318</td><td data-label=\"5년 차\">−247</td></tr></tbody></table></div><p class=\"source-note\">기준 · 참가비 12,000원 · 수수료 10% · 결제비 3%.</p><p class=\"source-note\">완료 예약은 공급·충원·취소 가정 · 변동비 860→500원/건.</p><p class=\"source-note\">연 운영비 720만 원 + 5곳 초과분 36만 원/곳.</p><p class=\"source-note\">1년 차 현금 운영비에 시범 운영비 50만 원 포함.</p><p class=\"source-note\">현금수지 = 수수료 매출 − 변동비 − 운영비 − 투자비. 항목별 표시값은 만 원 단위로 반올림했으며, 현금수지는 원 단위로 계산한 뒤 반올림.</p><p class=\"source-note\">인력 기회비용 월 200만 원 별도.</p><div class=\"table-wrap\" role=\"region\" tabindex=\"0\" aria-label=\"연차별 사업계획과 투자 기준\"><table><caption>연차별 사업계획과 투자 기준</caption><thead><tr><th scope=\"col\">기간</th><th scope=\"col\">사업·예산 계획</th><th scope=\"col\">핵심 지표</th><th scope=\"col\">승인 기준</th></tr></thead><tbody><tr><th scope=\"row\">1년 차 · 한 생활권</th><td data-label=\"사업·예산 계획\">기본 현금 예산 1,070만 원 · 거래 변동비 별도</td><td data-label=\"핵심 지표\">충원율 75% · 30일 재참가율 30%</td><td data-label=\"승인 기준\">8주 결과와 유료 예약당 공헌이익을 확인</td></tr><tr><th scope=\"row\">2년 차 · 인접 생활권</th><td data-label=\"사업·예산 계획\">생활권별 공급과 추가 관리비를 반영해 분기 예산 산정</td><td data-label=\"핵심 지표\">지역별 완료 예약 · 공헌이익 · 현금 손익</td><td data-label=\"승인 기준\">추가 운영비를 반영한 지역별 손익과 가용 현금 확인</td></tr><tr><th scope=\"row\">3년 차 · 제휴 운영 확대</th><td data-label=\"사업·예산 계획\">지역별 계획을 합산하고 연간 투자 우선순위 결정</td><td data-label=\"핵심 지표\">지역별 손익분기 · 현금 소요 · 공급 유지율</td><td data-label=\"승인 기준\">지역별 수익성과 운영 책임 확인 후 단계별 승인</td></tr><tr><th scope=\"row\">4년 차 · 운영 표준화</th><td data-label=\"사업·예산 계획\">공급처 28곳 · 정산·지원 프로세스 통합</td><td data-label=\"핵심 지표\">인력 기회비용 포함 월 운영손익</td><td data-label=\"승인 기준\">관리비·기회비용 포함 월 손익분기 3개월 연속</td></tr><tr><th scope=\"row\">5년 차 · 권역 확대</th><td data-label=\"사업·예산 계획\">공급처 36곳 · 다음 권역 투자 검토</td><td data-label=\"핵심 지표\">투자 후 현금수지 · 권역별 재참가율</td><td data-label=\"승인 기준\">현금수지와 권역별 수익성 검토 후 예산 확정</td></tr></tbody></table></div><div class=\"table-wrap\" role=\"region\" tabindex=\"0\" aria-label=\"1년 차 분기별 운영 계획\"><table><caption>1년 차 분기별 운영 계획</caption><thead><tr><th scope=\"col\">시기</th><th scope=\"col\">운영 계획</th><th scope=\"col\">관리 산출물</th></tr></thead><tbody><tr><th scope=\"row\">1분기</th><td data-label=\"운영 계획\">8주 파일럿 · 기본 현금 예산 461만 원</td><td data-label=\"관리 산출물\">제휴 조건과 충원·완료·취소 기록</td></tr><tr><th scope=\"row\">2분기</th><td data-label=\"운영 계획\">유료 조건 검토 · 30일 재참가 추적</td><td data-label=\"관리 산출물\">수수료·결제비·지원 비용 대조</td></tr><tr><th scope=\"row\">3분기</th><td data-label=\"운영 계획\">시간대와 공급처별 예산 재배분</td><td data-label=\"관리 산출물\">월 손익 차이 분석과 비용 관리</td></tr><tr><th scope=\"row\">4분기</th><td data-label=\"운영 계획\">연간 결과 검토와 다음 해 예산 심사</td><td data-label=\"관리 산출물\">생활권별 수익성과 투자 우선순위</td></tr></tbody></table></div><p class=\"source-note\">연간 운영 720만 원 + 구축 300만 원 + 시범 50만 원.</p><p class=\"source-note\">8주 예산은 연간 예산에 포함. 인력 기회비용은 월 200만 원.</p><p class=\"source-note\">운영자별 집계 → 생활권별 손익 → 전체 월간 보고.</p></div></details><details class=\"case-extra\"><summary>월간 경영보고 예시 · KPI·손익 비교</summary><div class=\"detail-body\"><p>6월 완료 예약 · 계획 1,052건 / 가상 실적 1,019건.</p><p>현금 손익 · 계획 −242,320원 / 가상 실적 −459,360원.</p><div class=\"table-wrap\" role=\"region\" tabindex=\"0\" aria-label=\"6월 월간 보고 예시 · 가상 데이터\"><table><caption>6월 월간 보고 예시 · 가상 데이터</caption><thead><tr><th scope=\"col\">항목</th><th scope=\"col\">계획 대비 손익 영향</th><th scope=\"col\">다음 조치</th></tr></thead><tbody><tr><th scope=\"row\">완료 물량</th><td data-label=\"계획 대비 손익 영향\">−39,600원</td><td data-label=\"다음 조치\">슬롯·충원·취소·완료 단계별 차이 대조</td></tr><tr><th scope=\"row\">수수료 단가</th><td data-label=\"계획 대비 손익 영향\">+400원</td><td data-label=\"다음 조치\">가격·수수료를 정산 원장과 대조</td></tr><tr><th scope=\"row\">순비용</th><td data-label=\"계획 대비 손익 영향\">−177,840원</td><td data-label=\"다음 조치\">고객 확보·지원·IT 비용의 증가 항목 확인</td></tr><tr><th scope=\"row\">합계</th><td data-label=\"계획 대비 손익 영향\">−217,040원</td><td data-label=\"다음 조치\">비용 배분과 후속 조치에 반영</td></tr></tbody></table></div><div class=\"table-wrap\" role=\"region\" tabindex=\"0\" aria-label=\"모의 월간 경영보고\"><table><caption>월간 계획·시나리오 데이터 비교</caption><thead><tr><th scope=\"col\">관리 항목</th><th scope=\"col\">기준·대조</th><th scope=\"col\">차이 분석·결정</th></tr></thead><tbody><tr><th scope=\"row\">공급·완료 KPI</th><td data-label=\"기준·대조\">626건/월 산정 기준. 슬롯·충원·예약·취소·완료율 분리.</td><td data-label=\"차이 분석·결정\">계획과 가상 결과의 물량 차이를 공급량·충원·취소로 분해</td></tr><tr><th scope=\"row\">수수료·손익</th><td data-label=\"기준·대조\">월 기준 · 매출 75.1만 원 / 건당 340원 / 현금 −38.7만 원</td><td data-label=\"차이 분석·결정\">원장 대조 · 수수료·변동비·고정비 확인 · 중복 차감 방지</td></tr><tr><th scope=\"row\">보고 절차 제안</th><td data-label=\"기준·대조\">월말+3일 원장 대조. +5일 차이 분석.</td><td data-label=\"차이 분석·결정\">원인·증빙·변경 산정 기준·승인 여부를 기록할 관리 절차 설계</td></tr></tbody></table></div></div></details><details><summary>8주 예산과 투자 심사 지표</summary><div class=\"detail-body\"><div class=\"case-evidence-part\"><h4>8주 자원 산정·승인 범위</h4><p>예산 · 구축 300만 원 / 월 기회비용 200만 원 / 시범 운영 50만 원.</p><p>창업자 투입 · 148시간 × 25,000원.</p><div class=\"table-wrap\" role=\"region\" aria-label=\"8주 현장 검증 자원 · 집행 상한 제안\" tabindex=\"0\"><table><caption>8주 현장 검증 자원 · 집행 상한 제안</caption><thead><tr><th scope=\"col\">항목</th><th scope=\"col\">산정·범위</th><th scope=\"col\">8주 금액</th></tr></thead><tbody><tr><th scope=\"row\">초기 구축</th><td data-label=\"산정·범위\">기존 초기 투자 계획. 필요한 범위만 착수 전 승인</td><td data-label=\"8주 금액\">3,000,000원</td></tr><tr><th scope=\"row\">고정 운영</th><td data-label=\"산정·범위\">월 600,000원 × 8주 ÷ 4.33주 · 만 원 단위 올림</td><td data-label=\"8주 금액\">1,110,000원</td></tr><tr><th scope=\"row\">시범 운영 추가비</th><td data-label=\"산정·범위\">모집·현장 지원 등 추가 집행 한도 산정 기준. 고정비와 중복 제외</td><td data-label=\"8주 금액\">500,000원</td></tr><tr><th scope=\"row\">기본 현금 예산</th><td data-label=\"산정·범위\">초기 구축비 + 고정 운영비 + 시범 운영 추가비. 유료 거래 변동비는 집행 전 별도 승인.</td><td data-label=\"8주 금액\">4,610,000원</td></tr><tr><th scope=\"row\">기회비용</th><td data-label=\"산정·범위\">200만 원 × 8주 ÷ 4.33주 · 만 원 단위 올림</td><td data-label=\"8주 금액\">3,700,000원</td></tr><tr><th scope=\"row\">기본 자원 합계</th><td data-label=\"산정·범위\">기본 현금 예산 + 기회비용 · 유료 거래 변동비 별도</td><td data-label=\"8주 금액\">8,310,000원</td></tr></tbody></table></div><p>기회비용은 월 4.33주 기준으로 계산해 만 원 단위로 올림. 유료 검증 전 거래 변동비 한도를 별도 승인.</p><p>해지·환불·안전 책임 확인. 예산 초과 시 집행 보류.</p></div><div class=\"case-evidence-part\"><h4>투자 심사 지표 · 정의와 목표</h4><div class=\"table-wrap\" role=\"region\" aria-label=\"투자 판단에 필요한 수치\" tabindex=\"0\"><table><caption>투자 판단에 필요한 수치</caption><thead><tr><th scope=\"col\">지표</th><th scope=\"col\">계산·측정 기준</th><th scope=\"col\">다음 판단</th></tr></thead><tbody><tr><th scope=\"row\">모집 충원율</th><td data-label=\"계산·측정 기준\">확정 좌석 ÷ 공개 정원(취소 전·전체 채널).</td><td data-label=\"다음 판단\">목표 75%, 인원 미달 취소 별도 집계</td></tr><tr><th scope=\"row\">30일 재참가율</th><td data-label=\"계산·측정 기준\">30일 내 재참가 고유 이용자 ÷ 30일 경과 이용자.</td><td data-label=\"다음 판단\">제안 목표 30%, 첫 참가 후 30일이 지난 집단만 평가</td></tr><tr><th scope=\"row\">예약당 공헌이익</th><td data-label=\"계산·측정 기준\">수수료 수익 − 결제비 − 유입·지원·IT 변동비</td><td data-label=\"다음 판단\">실제 정산 표본에서 양수인지 확인</td></tr><tr><th scope=\"row\">참가 안정성</th><td data-label=\"계산·측정 기준\">참가 처리·중복 방지·정원 일관성과 복구 결과</td><td data-label=\"다음 판단\">중대한 데이터 오류를 해결한 뒤 공급 확대</td></tr><tr><th scope=\"row\">AI 추가 가치</th><td data-label=\"계산·측정 기준\">기본 정렬 대비 참가 완료와 추가 비용</td><td data-label=\"다음 판단\">기본 정렬을 기준으로 추가 효과에 따라 AI 적용</td></tr></tbody></table></div></div></div></details><details><summary>월간 지표 관리와 손익 검증</summary><div class=\"detail-body\"><div class=\"case-evidence-part\"><h4>월간 지표 관리·정정 책임표</h4><p>2027년 상반기 가상 데이터, 하반기 공급 전망.</p><p>예약 ID별 취소·노쇼 구분. 환불 차감 후 수수료 적용.</p><div class=\"table-wrap\"><table><thead><tr><th>관리 항목</th><th>정의·주기</th><th>담당 역할</th><th>마감·정정 통제</th></tr></thead><tbody><tr><th scope=\"row\">수수료 매출</th><td data-label=\"정의·주기\">완료 거래액 × 계약 수수료 / 월</td><td data-label=\"담당 역할\">사업 관리</td><td data-label=\"마감·정정 통제\">월말 이후 3일 이내 대조, 환불·수수료 원장 확인</td></tr><tr><th scope=\"row\">손익 차이</th><td data-label=\"정의·주기\">물량·건당 수익·비용 영향 분해 / 월</td><td data-label=\"담당 역할\">경영기획</td><td data-label=\"마감·정정 통제\">월말 이후 5일 이내 원인 보고</td></tr><tr><th scope=\"row\">공급·완료율</th><td data-label=\"정의·주기\">슬롯·정원·플랫폼 예약·취소·완료 / 주</td><td data-label=\"담당 역할\">운영</td><td data-label=\"마감·정정 통제\">운영자별 중복 등록·미래 일정 검증</td></tr><tr><th scope=\"row\">데이터 정정</th><td data-label=\"정의·주기\">원본 보존, 예약 ID·수정 사유·버전 기록</td><td data-label=\"담당 역할\">데이터 관리</td><td data-label=\"마감·정정 통제\">담당자 확인 후 재집계, 보고 버전 갱신</td></tr></tbody></table></div></div><div class=\"case-evidence-part\"><h4>손익 변화 검사 세부표</h4><p class=\"source-note\">CAC·수수료·취소율 변화별 손익 비교.</p><div class=\"table-wrap\"><table><thead><tr><th>검증 시나리오</th><th>검증 내용</th><th>판단</th></tr></thead><tbody><tr><th scope=\"row\">플랫폼 예약 비중 20% 감소</th><td data-label=\"검증 내용\">매출·공헌이익·필요 공급처 재계산</td><td data-label=\"판단\">수수료 협상만으로 만회 가능한지 확인</td></tr><tr><th scope=\"row\">고객 확보비 2배</th><td data-label=\"검증 내용\">신규 비중을 반영한 건당 이익 재계산</td><td data-label=\"판단\">0 이하이면 유입 지출 확대 보류</td></tr><tr><th scope=\"row\">취소율 20%</th><td data-label=\"검증 내용\">완료 거래와 취소 CS 비용 반영</td><td data-label=\"판단\">환불·지원비 부담 재협상</td></tr><tr><th scope=\"row\">공헌이익 0 이하</th><td data-label=\"검증 내용\">손익분기 출력 경계 검사</td><td data-label=\"판단\">건당 공헌이익 개선 우선</td></tr><tr><th scope=\"row\">ID·환불·합계 대조</th><td data-label=\"검증 내용\">중복 예약, 환불 초과, 월 합계 일치 검사</td><td data-label=\"판단\">검증 결과와 재현 방법은 첨부 자료에 기록</td></tr></tbody></table></div><p class=\"source-note\">충원율 75%=전체 채널·취소 전(04). 플랫폼 지표 별도.</p></div></div></details><details class=\"case-extra\"><summary>측정 방법과 현장 검증 판단</summary><div class=\"detail-body\"><div class=\"case-evidence-part\"><h4>검토 방향별 측정 방법과 평가 시점</h4><div class=\"table-wrap\" role=\"region\" aria-label=\"8주 현장 검증 설계안\" tabindex=\"0\"><table><caption>8주 현장 검증 설계안</caption><thead><tr><th scope=\"col\">검토 방향·대상</th><th scope=\"col\">수집 자료·평가 시점</th><th scope=\"col\">평가 결과별 조치</th></tr></thead><tbody><tr><th scope=\"row\">지역 공급 · 후보 운영자 5곳</th><td data-label=\"수집 자료·평가 시점\">1–2주 · 제휴·슬롯·정원·취소·수수료 확인.</td><td data-label=\"평가 결과별 조치\">2곳 이상 시범 운영. 미만이면 지역·제휴 조건 재검토.</td></tr><tr><th scope=\"row\">참가 수요 · 해당 생활권 이용자</th><td data-label=\"수집 자료·평가 시점\">3–8주 · 정원·확정·취소·완료·운영 시간 기록.</td><td data-label=\"평가 결과별 조치\">충원 목표 75%·미달 취소 대조 후 시간대·공급량 조정</td></tr><tr><th scope=\"row\">반복 이용 · 첫 참가 완료 집단</th><td data-label=\"수집 자료·평가 시점\">첫 참가 후 30일 추적 · 추적 완료자만 분모(무료·유료 구분)</td><td data-label=\"평가 결과별 조치\">추적 완료자 재참가 목표 30%.</td></tr><tr><th scope=\"row\">단위 손익 · 실제 유료 완료 예약</th><td data-label=\"수집 자료·평가 시점\">유료 전환 후 매출·환불·결제비·획득비·지원·IT 비용 기록.</td><td data-label=\"평가 결과별 조치\">양의 공헌이익·고정비 회수 조건 확인. 지불 의향·실현 매출 구분</td></tr><tr><th scope=\"row\">AI 추가 가치 · 같은 적격 후보 집단</th><td data-label=\"수집 자료·평가 시점\">실험 전 배정·노출·완료·호출 비용 확정. 표본은 효과 크기로 산정.</td><td data-label=\"평가 결과별 조치\">초기 모집 목표 100명. 표본 부족 시 탐색적 결과 보고·추가 측정</td></tr></tbody></table></div><p class=\"source-note\">역할 · 운영자 현장 / 서비스 기록 / 기획 심사. 권한 추후 확정.</p></div><div class=\"case-evidence-part\"><h4>현장 검증 결과별 의사결정</h4><div class=\"table-wrap\" role=\"region\" aria-label=\"진행 여부와 후속 조치\" tabindex=\"0\"><table><caption>진행 여부와 후속 조치</caption><thead><tr><th scope=\"col\">상태</th><th scope=\"col\">판단 기준</th><th scope=\"col\">후속 행동</th></tr></thead><tbody><tr><th scope=\"row\">진행</th><td data-label=\"판단 기준\">공급·운영 안정성 확보 및 추적 완료자 목표 달성</td><td data-label=\"후속 행동\">다음 단계 필요 예산만 승인. 확대 경제성 별도 심사</td></tr><tr><th scope=\"row\">목표 재점검</th><td data-label=\"판단 기준\">전체 채널 모집 충원율 75%와 첫 참가 후 30일 추적 완료자의 재참가율 30%를 각각 점검.</td><td data-label=\"후속 행동\">시간대·공급·가격 중 변경 방향 확정 후 남은 예산 내 재실험</td></tr><tr><th scope=\"row\">자료 보완</th><td data-label=\"판단 기준\">모집 규모·비교 표본·기록 보완 필요</td><td data-label=\"후속 행동\">표본·기록·추가 비용을 보완한 후 효과 평가</td></tr><tr><th scope=\"row\">측정 진행</th><td data-label=\"판단 기준\">첫 참가 후 30일 추적 진행 중</td><td data-label=\"후속 행동\">추적 중인 집단은 별도 집계 · 완료 후 재심사</td></tr><tr><th scope=\"row\">중단·재승인</th><td data-label=\"판단 기준\">중대한 정원·권한 오류, 책임 미확정, 예상 집행 상한 초과</td><td data-label=\"후속 행동\">해당 모집·집행 중단. 원인 해소·잔여 예산 확인 후 재승인</td></tr></tbody></table></div><p>8주 후 현금 지출·약정 금액·남은 과제 보고</p><p>30일 추적 완료 후 확대 심사.</p></div></div></details>"
   },
   {
     "name": "종합 판단·근거",

diff --git a/src/case-study/materials.html b/src/case-study/materials.html
@@ -271,7 +271,7 @@ let ms=DATA.monthly.filter(x=>x.project===p);$('monthly').innerHTML=tab(['월','
 let x=ms[5],q0=x.plan_orders,q1=x.sim_orders,p0=q0?x.plan_revenue/q0:0,p1=q1?x.sim_revenue/q1:0,volume=(q1-q0)*p0,price=q1*(p1-p0),cost=(x.sim_profit-x.plan_profit)-(volume+price);$('variance').innerHTML=tab(['6월 원인','손익 영향','조치 제안'],[['완료 물량 차이',money(volume),'플랫폼 예약·취소·완료율을 구분해 점검'],['건당 수수료 수익 차이',money(price),'상품·가격·수수료 조건 확인'],['순비용 차이',money(cost),'취소 지원·고객 확보·IT 비용 점검'],['손익 차이 합계',money(x.sim_profit-x.plan_profit),'예산 검토에 반영']]);
 let max=Math.max(...ms.flatMap(x=>[x.plan_revenue,x.sim_revenue]),1),bars=ms.map((x,i)=>{let a=150*x.plan_revenue/max,b=150*x.sim_revenue/max;return `<rect x="${30+i*80}" y="${180-a}" width="23" height="${a}" fill="#173f33"/><rect x="${55+i*80}" y="${180-b}" width="23" height="${b}" fill="#8fb69a"/><text x="${30+i*80}" y="205" font-size="13">${i+1}월</text>`}).join('');$('chart').innerHTML='<text x="24" y="18" font-size="14">수수료 매출 비교 · 진한색 계획 / 연한색 가상 실적</text>'+bars;}
 function reset(){let c=DATA.configs[$('project').value];for(let id of ['rate','share','cancel','cac','pg'])$(id).value=c[id]*(id==='cac'?1:100);update()}for(let id of ['rate','share','cancel','cac','pg'])$(id).addEventListener('input',update);$('project').addEventListener('change',reset);$('reset').addEventListener('click',reset);reset();</script><script src="report-previews.js?v=20261111-priority-slides"></script><script>const strategyDeck=new URLSearchParams(location.search).get('deck')==='strategy';const slides=strategyDeck?[{"title":"중장기 경영전략 및 수익성 개선","src":"/src/case-study/previews/strategy/slide-1.jpg"},{"title":"5개년 성장 전략과 핵심 지표","src":"/src/case-study/previews/strategy/slide-2.jpg"},{"title":"사업모델 협상에 따른 수익구조 개선","src":"/src/case-study/previews/strategy/slide-3.jpg"},{"title":"손익·비용 구조를 반영한 5개년 계획","src":"/src/case-study/previews/strategy/slide-4.jpg?v=20261111-priority-slides"},{"title":"경영성과 관리와 자원 배분 체계","src":"/src/case-study/previews/strategy/slide-5.jpg"},{"title":"성장 목표보다 수익성 있는 확대를 우선","src":"/src/case-study/previews/strategy/slide-6.jpg"}]:window.REPORT_SLIDES;const slideSummaries=strategyDeck?["5개년 경영전략의 전체 흐름","제휴 공급 확대와 핵심 성과지표","수수료·결제비 협상을 통한 건당 수익 개선","5개년 손익과 비용 구조","월간 계획·실적·예산·투자 우선순위","수익성을 확인한 뒤 단계적으로 확대"]:["운영 구조와 수익성 개선 판단","운영자·플랫폼·참가자의 역할과 책임","공급처와 예약 비중을 고려한 완료 예약 추정","수수료·결제비 부담에 따른 공헌이익 개선안","계획 대비 손익 차이 원인과 운영 대응","참가·취소·정원 데이터의 관리와 검증","구축 범위·월 운영비·IT 투자 우선순위","시나리오별 ROI·비용 회수율 비교","5개년 전망·핵심 지표·단계적 투자 기준"];const revisedSlides=slides.map((_,index)=>index+1);
-revisedSlides.forEach(number=>{slides[number-1].src='/src/case-study/previews/'+(strategyDeck?'strategy':'report')+'/decision-'+number+'.jpg?v='+(!strategyDeck&&number===1?'20261113-budget':'20261113-spacing');});
+revisedSlides.forEach(number=>{slides[number-1].src='/src/case-study/previews/'+(strategyDeck?'strategy':'report')+'/decision-'+number+'.jpg?v='+(!strategyDeck&&number===1?'20261113-budget':!strategyDeck&&number===9?'20261113-rounding':'20261113-spacing');});
 const keypoints=strategyDeck?[
  '공급처 5곳에서 36곳까지 확대하는 경영계획 시나리오.',
  '5·12·20·28·36곳. 계약 조건, 운영 안정성, 지역 손익을 확인한 뒤 확대.',

diff --git a/index.html b/index.html
@@ -17,7 +17,7 @@
 <a class="skip-link" href="#main">본문으로 이동</a>
 <div class="fm-cs-shell"><aside class="sidebar" aria-label="본문 목차"><div class="sb-brand"><div class="sb-logo">FootMate</div><div class="sb-sub">신사업 사업성 분석·경영계획</div></div><nav class="toc" aria-label="신사업 사업성 분석·경영계획 9개 섹션"></nav></aside>
 <main class="viewer" id="main"><div class="track"><section class="slide"></section><section class="slide"></section><section class="slide"></section><section class="slide"></section><section class="slide"></section><section class="slide"></section><section class="slide"></section><section class="slide"></section><section class="slide"></section></div><noscript><p>이 페이지는 JavaScript가 필요합니다. <a href="/src/case-study/materials.html">분석 자료·원본 다운로드</a>에서 자료를 확인할 수 있습니다.</p></noscript></main></div>
-<script src="/src/case-study/nine-sections.js?v=20261113-budget"></script>
+<script src="/src/case-study/nine-sections.js?v=20261113-rounding"></script>
 </body></html>
 
 
